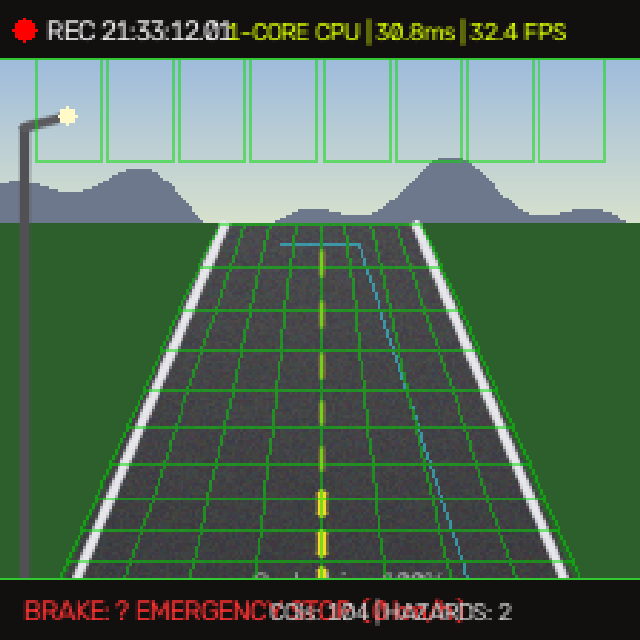
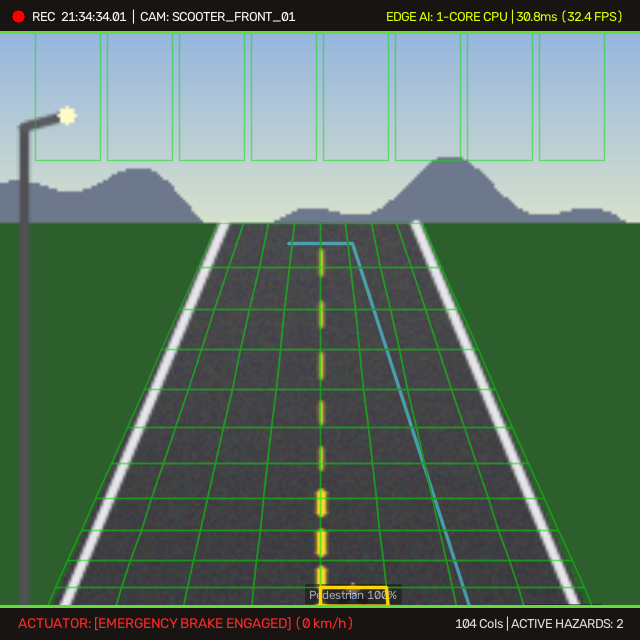
feat: HD 640x640 Autonomous Vehicle HUD with unpixelated text & badges

diff --git a/frontend_app.py b/frontend_app.py
@@ -1,8 +1,8 @@
 """
-YOLIC Paper-Style Interactive Visualizer (Streamlit - Autonomous Vehicle HUD Edition)
+YOLIC Paper-Style Interactive Visualizer (Streamlit - High-Definition Autonomous Vehicle HUD)
 Replicates the 104-CoI grid overlays from Su et al. (Image and Vision Computing 2024, Fig. 1 & Fig. 8)
-with authentic real-time Autonomous Driving Heads-Up Display (HUD) overlays:
-- Live `● REC` timestamp counter & Camera Telemetry.
+with razor-sharp 640x640 Autonomous Driving Heads-Up Display (HUD) overlays:
+- Crisp `● REC` live timecode counter & Edge AI Telemetry.
 - Dynamic vehicle trajectory lines and perspective corridor.
 - Distance-aware hazard badges (<1.8m Danger vs. >5m Warning).
 - Real-time speedometer gauge with emergency brake strobe.
@@ -85,28 +85,32 @@ def draw_yolic_hud_grid(
     show_road_grid: bool = True,
     fps: float = 31.4,
     latency_ms: float = 31.8,
-    frame_idx: int = 1
+    frame_idx: int = 1,
+    render_dim: int = 640
 ) -> Tuple[np.ndarray, List[dict], dict]:
     """
-    Renders paper-matching perspective cell grid and authentic Autonomous Vehicle HUD telemetry.
+    Renders paper-matching perspective cell grid and razor-sharp Autonomous Vehicle HUD telemetry.
+    Upscales to render_dim (640x640) so graphics, borders, and text are crisp and unpixelated.
     """
-    H, W, _ = image_bgr.shape
+    # 1. Upscale image to high resolution for sharp HUD rendering
+    hires_img = cv2.resize(image_bgr, (render_dim, render_dim), interpolation=cv2.INTER_LINEAR)
+    H, W = render_dim, render_dim
     polygons = get_coi_polygons(num_cois)
 
-    overlay = image_bgr.copy()
+    overlay = hires_img.copy()
     active_hazards = []
 
     bg_probs = probabilities[:, 11]
     hazard_probs = probabilities[:, :11]
 
-    # 1. Perspective Trajectory Guide (Vehicle Driving Corridor)
+    # 2. Perspective Trajectory Guide (Vehicle Driving Corridor)
     pts_corridor = np.array([
-        [int(0.24 * W), H],
-        [int(0.76 * W), H],
-        [int(0.56 * W), int(0.38 * H)],
-        [int(0.44 * W), int(0.38 * H)]
+        [int(0.25 * W), H],
+        [int(0.75 * W), H],
+        [int(0.55 * W), int(0.38 * H)],
+        [int(0.45 * W), int(0.38 * H)]
     ], dtype=np.int32)
-    cv2.polylines(overlay, [pts_corridor], isClosed=False, color=(255, 230, 50), thickness=1)
+    cv2.polylines(overlay, [pts_corridor], isClosed=False, color=(255, 230, 80), thickness=2, lineType=cv2.LINE_AA)
 
     for idx, poly_norm in enumerate(polygons):
         poly_px = (poly_norm * [W, H]).astype(np.int32)
@@ -117,7 +121,6 @@ def draw_yolic_hud_grid(
         best_cls = int(np.argmax(hazard_probs[idx]))
         p_hazard = float(hazard_probs[idx, best_cls])
 
-        # Active hazard condition (Paper: P_bg < 0.5 and P_hazard >= threshold)
         is_hazard = (p_bg < threshold) and (p_hazard >= threshold)
 
         if is_hazard:
@@ -128,9 +131,8 @@ def draw_yolic_hud_grid(
             # Colored semi-transparent highlight fill
             cv2.fillPoly(overlay, [poly_px], color_bgr)
             # Solid bright border
-            cv2.polylines(overlay, [poly_px], isClosed=True, color=(255, 255, 255), thickness=2)
+            cv2.polylines(overlay, [poly_px], isClosed=True, color=(255, 255, 255), thickness=2, lineType=cv2.LINE_AA)
 
-            # Distance estimation based on row
             row_idx = idx // 8 if idx < 96 else 99
             if is_near_field:
                 dist_str = "< 1.8m [DANGER]"
@@ -138,14 +140,17 @@ def draw_yolic_hud_grid(
                 dist_est = 2.0 + (row_idx * 0.9)
                 dist_str = f"~{dist_est:.1f}m"
 
-            # Badge Label
+            # Crisp Badge Label inside or above cell
             label = f"{cls_name} {int(p_hazard*100)}%"
+            # Badge background capsule
+            (tw, th), _ = cv2.getTextSize(label, cv2.FONT_HERSHEY_SIMPLEX, 0.42, 1)
+            cv2.rectangle(overlay, (cx - tw // 2 - 4, cy - th - 4), (cx + tw // 2 + 4, cy + 4), (20, 20, 25), -1)
             cv2.putText(
                 overlay,
                 label,
-                (max(3, cx - 35), max(12, cy - 2)),
+                (cx - tw // 2, cy),
                 cv2.FONT_HERSHEY_SIMPLEX,
-                0.32,
+                0.42,
                 (255, 255, 255),
                 1,
                 cv2.LINE_AA
@@ -161,52 +166,58 @@ def draw_yolic_hud_grid(
 
         elif show_road_grid:
             # Clear road cell: subtle green perspective outline
-            cv2.polylines(overlay, [poly_px], isClosed=True, color=(0, 220, 0), thickness=1)
+            cv2.polylines(overlay, [poly_px], isClosed=True, color=(0, 225, 0), thickness=1, lineType=cv2.LINE_AA)
 
     # Alpha blend overlay with base image
-    blended = cv2.addWeighted(overlay, 0.50, image_bgr, 0.50, 0)
+    blended = cv2.addWeighted(overlay, 0.55, hires_img, 0.45, 0)
 
     # Crisp borders on active hazard cells
     for h in active_hazards:
         poly_px = (polygons[h["coi_id"]] * [W, H]).astype(np.int32)
         color_bgr = CLASS_COLORS.get(CLASS_NAMES.index(h["class"]), (0, 0, 255))
-        cv2.polylines(blended, [poly_px], isClosed=True, color=color_bgr, thickness=2)
+        cv2.polylines(blended, [poly_px], isClosed=True, color=color_bgr, thickness=2, lineType=cv2.LINE_AA)
 
-    # 2. Authentic Autonomous Vehicle HUD Stamping (Directly on frame)
-    # HUD Top Bar Background Strip
-    cv2.rectangle(blended, (0, 0), (W, 20), (15, 15, 18), -1)
-    cv2.line(blended, (0, 20), (W, 20), (50, 200, 50), 1)
+    # 3. Autonomous Vehicle HUD Top & Bottom Bars
+    # Top Bar (Dark semi-transparent header)
+    top_bar_h = 32
+    cv2.rectangle(blended, (0, 0), (W, top_bar_h), (18, 20, 24), -1)
+    cv2.line(blended, (0, top_bar_h), (W, top_bar_h), (60, 220, 100), 2)
 
-    # REC Strobe Indicator
-    cv2.circle(blended, (8, 10), 4, (0, 0, 255), -1)
+    # Left: REC Indicator & Timecode
+    cv2.circle(blended, (18, 16), 6, (0, 0, 255), -1)
     now_time = datetime.datetime.now().strftime("%H:%M:%S")
-    time_str = f"REC {now_time}.{(frame_idx % 30):02d}"
-    cv2.putText(blended, time_str, (16, 14), cv2.FONT_HERSHEY_SIMPLEX, 0.32, (240, 240, 240), 1, cv2.LINE_AA)
+    time_str = f"REC  {now_time}.{(frame_idx % 30):02d}  |  CAM: SCOOTER_FRONT_01"
+    cv2.putText(blended, time_str, (32, 21), cv2.FONT_HERSHEY_SIMPLEX, 0.45, (240, 245, 250), 1, cv2.LINE_AA)
 
-    # Edge CPU Telemetry
-    cpu_info = f"1-CORE CPU | {latency_ms:.1f}ms | {fps:.1f} FPS"
-    cv2.putText(blended, cpu_info, (W - 145, 14), cv2.FONT_HERSHEY_SIMPLEX, 0.30, (0, 255, 220), 1, cv2.LINE_AA)
+    # Right: Edge CPU Telemetry
+    cpu_info = f"EDGE AI: 1-CORE CPU | {latency_ms:.1f}ms ({fps:.1f} FPS)"
+    (cw, ch), _ = cv2.getTextSize(cpu_info, cv2.FONT_HERSHEY_SIMPLEX, 0.45, 1)
+    cv2.putText(blended, cpu_info, (W - cw - 16, 21), cv2.FONT_HERSHEY_SIMPLEX, 0.45, (0, 255, 220), 1, cv2.LINE_AA)
 
-    # HUD Bottom Bar Background Strip
-    cv2.rectangle(blended, (0, H - 22), (W, H), (15, 15, 18), -1)
-    cv2.line(blended, (0, H - 22), (W, H - 22), (50, 200, 50), 1)
+    # Bottom Bar (Dark footer)
+    bot_bar_h = 34
+    cv2.rectangle(blended, (0, H - bot_bar_h), (W, H), (18, 20, 24), -1)
+    cv2.line(blended, (0, H - bot_bar_h), (W, H - bot_bar_h), (60, 220, 100), 2)
 
     # Actuator Signal Status
     has_near_hazard = any(h["is_near_field"] for h in active_hazards)
     has_hazards = len(active_hazards) > 0
 
     if has_near_hazard:
-        status_txt = "BRAKE: 🛑 EMERGENCY STOP (0 km/h)"
-        cv2.putText(blended, status_txt, (8, H - 7), cv2.FONT_HERSHEY_SIMPLEX, 0.33, (50, 50, 255), 1, cv2.LINE_AA)
+        status_txt = "ACTUATOR: [EMERGENCY BRAKE ENGAGED] (0 km/h)"
+        status_color = (40, 40, 255) # Red
     elif has_hazards:
-        status_txt = "SPEED: ⚠ WARNING THROTTLE (10 km/h)"
-        cv2.putText(blended, status_txt, (8, H - 7), cv2.FONT_HERSHEY_SIMPLEX, 0.33, (0, 220, 255), 1, cv2.LINE_AA)
+        status_txt = "ACTUATOR: [SPEED WARNING REDUCTION] (10 km/h)"
+        status_color = (0, 220, 255) # Yellow
     else:
-        status_txt = "STATUS: ✅ CLEAR CRUISING (25 km/h)"
-        cv2.putText(blended, status_txt, (8, H - 7), cv2.FONT_HERSHEY_SIMPLEX, 0.33, (50, 255, 50), 1, cv2.LINE_AA)
+        status_txt = "ACTUATOR: [ALL CLEAR CRUISING] (25 km/h)"
+        status_color = (50, 255, 60) # Green
 
-    coi_badge = f"COIs: {num_cois} | HAZARDS: {len(active_hazards)}"
-    cv2.putText(blended, coi_badge, (W - 130, H - 7), cv2.FONT_HERSHEY_SIMPLEX, 0.30, (200, 200, 200), 1, cv2.LINE_AA)
+    cv2.putText(blended, status_txt, (18, H - 12), cv2.FONT_HERSHEY_SIMPLEX, 0.48, status_color, 1, cv2.LINE_AA)
+
+    coi_badge = f"{num_cois} CoIs | ACTIVE HAZARDS: {len(active_hazards)}"
+    (bw, bh), _ = cv2.getTextSize(coi_badge, cv2.FONT_HERSHEY_SIMPLEX, 0.45, 1)
+    cv2.putText(blended, coi_badge, (W - bw - 16, H - 12), cv2.FONT_HERSHEY_SIMPLEX, 0.45, (220, 220, 220), 1, cv2.LINE_AA)
 
     actuator_decision = {
         "emergency_stop": has_near_hazard,
@@ -307,7 +318,7 @@ def main():
         latency_ms = (t1 - t0) * 1000.0
         fps = 1000.0 / latency_ms if latency_ms > 0 else 0.0
 
-        # Render Authentic HUD
+        # Render Authentic HD HUD
         rendered_bgr, active_hazards, actuation_dec = draw_yolic_hud_grid(
             img_bgr,
             probs,
@@ -325,8 +336,7 @@ def main():
         col_img, col_metrics = st.columns([3, 2])
 
         with col_img:
-            display_img = cv2.resize(rendered_rgb, (640, 640), interpolation=cv2.INTER_NEAREST)
-            st.image(display_img, caption="Live YOLIC Edge Vision Camera HUD Overlay", use_container_width=True)
+            st.image(rendered_rgb, caption="Live YOLIC Edge Vision Camera HUD Overlay (640x640 HD)", use_container_width=True)
 
         with col_metrics:
             # Actuator Status Banner
@@ -340,7 +350,7 @@ def main():
             # Metrics Card
             m_col1, m_col2, m_col3 = st.columns(3)
             m_col1.metric("Latency", f"{latency_ms:.1f} ms")
-            m_col2.metric("FPS", f"{fps:.1f}")
+            m_col2.metric("Throughput", f"{fps:.1f} FPS")
             m_col3.metric("Target Speed", f"{actuation['target_speed_kmh']} km/h")
 
             # Active Hazards Table
@@ -395,8 +405,7 @@ def main():
                 rendered_rgb = cv2.cvtColor(rendered_bgr, cv2.COLOR_BGR2RGB)
                 actuation = actuator.evaluate(active_hazards)
 
-                display_img = cv2.resize(rendered_rgb, (640, 640), interpolation=cv2.INTER_NEAREST)
-                frame_slot.image(display_img, caption=f"Live Camera Stream [Frame {idx+1}/{stream_len}] | Latency: {latency_ms:.1f}ms ({fps:.1f} FPS)")
+                frame_slot.image(rendered_rgb, caption=f"Live Camera Stream [Frame {idx+1}/{stream_len}] | Latency: {latency_ms:.1f}ms ({fps:.1f} FPS)")
 
                 if actuation["emergency_stop"]:
                     actuator_slot.error(f"🛑 Frame {idx+1}: {actuation['status_message']}")
@@ -441,7 +450,7 @@ def main():
 
             c1, c2 = st.columns([3, 2])
             with c1:
-                st.image(cv2.resize(rendered_rgb, (640, 640)), caption="Live HUD Overlays", use_container_width=True)
+                st.image(rendered_rgb, caption="Live HD HUD Overlays", use_container_width=True)
             with c2:
                 if actuation["emergency_stop"]:
                     st.error(f"🛑 {actuation['status_message']}")
